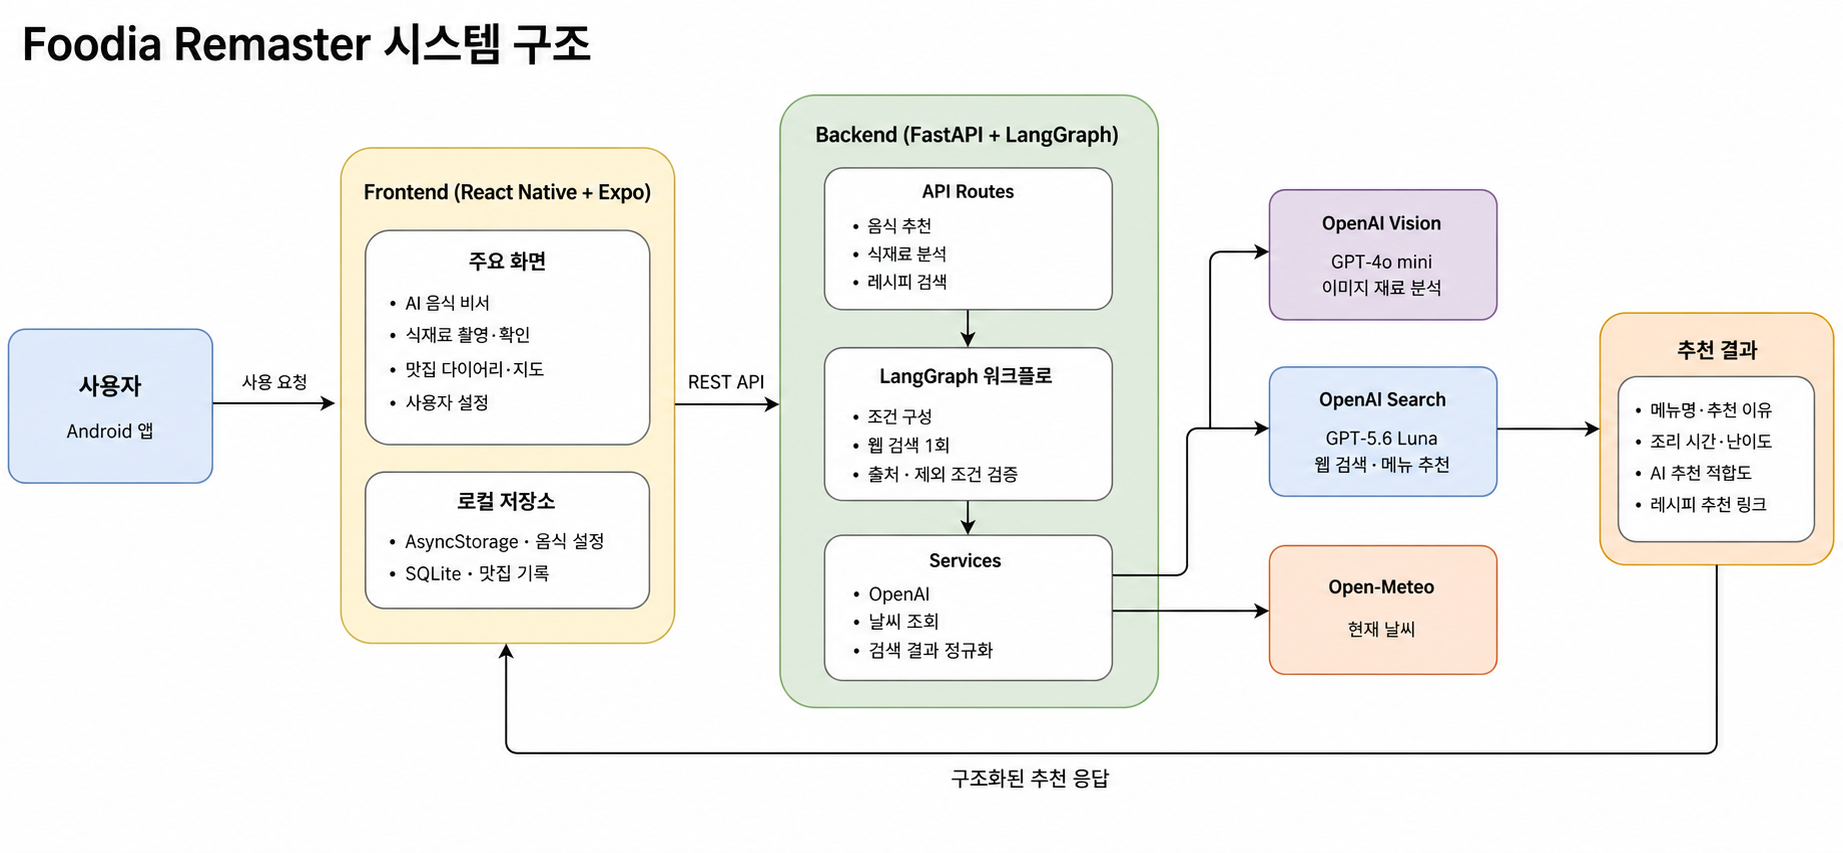
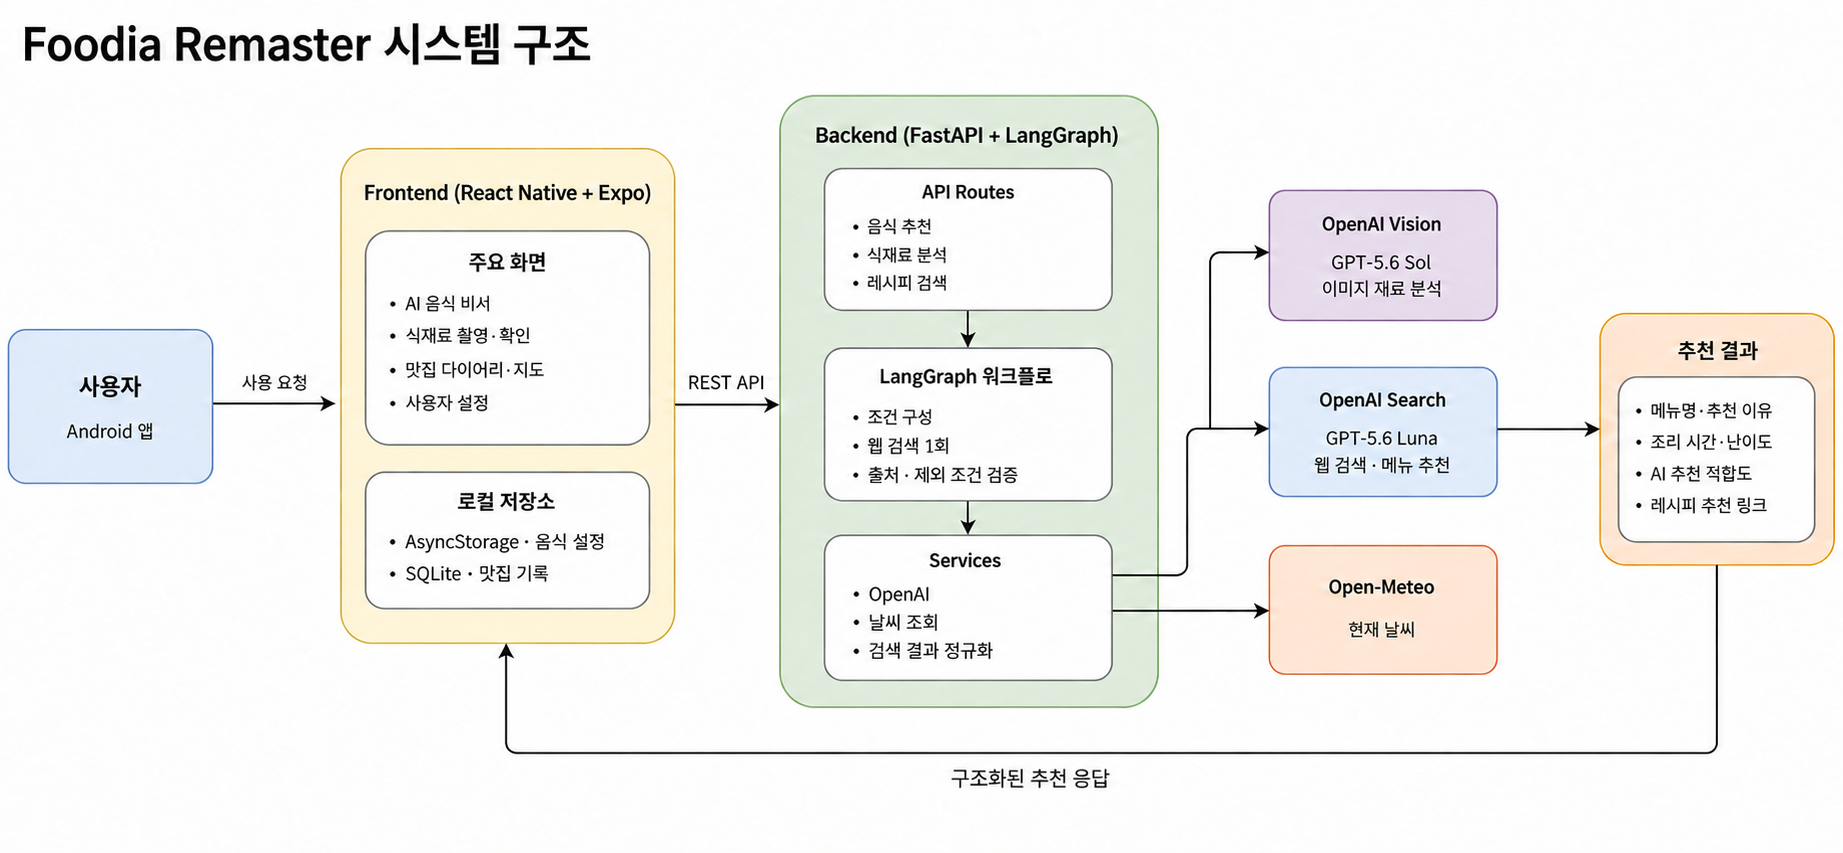
model fix

diff --git a/backend/src/config/settings.py b/backend/src/config/settings.py
@@ -17,8 +17,8 @@ class Settings(BaseSettings):
     cors_origins: str = "http://localhost:8081,http://localhost:19006"
 
     openai_api_key: SecretStr | None = None
-    openai_vision_model: str = "gpt-4o-mini"
-    openai_recipe_model: str = "gpt-4o-mini"
+    openai_vision_model: str = "gpt-5.6-sol"
+    openai_recipe_model: str = "gpt-5.6-luna"
     openai_search_model: str = "gpt-5.6-luna"
     recipe_search_domain: str = "10000recipe.com"
     enable_llm_recipe_verification: bool = False
